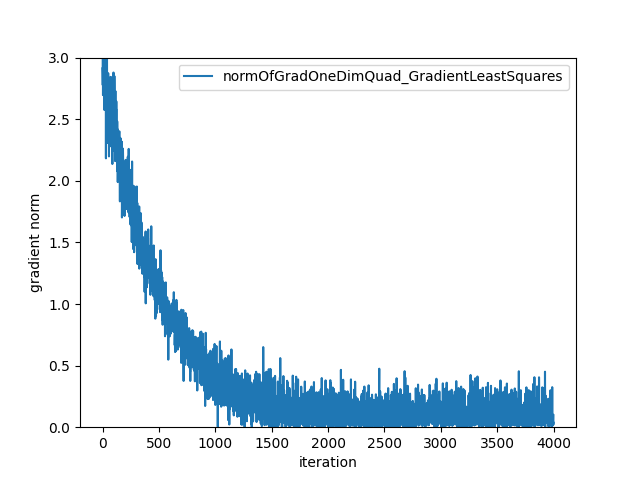
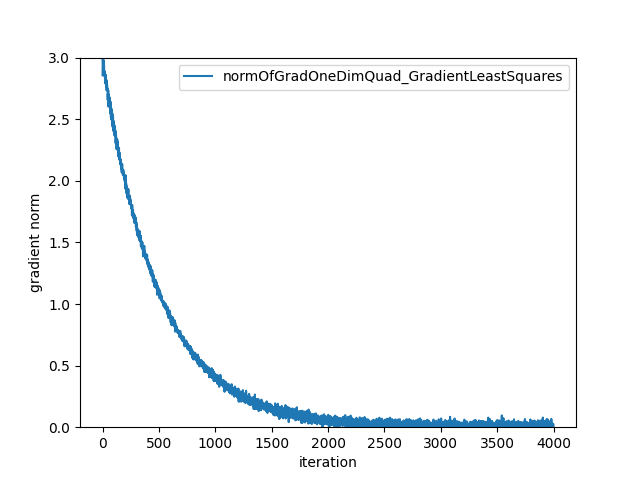
computing A memory efficiently

Changed region(s): [[0.1562, 0.125, 0.875, 0.9062]]

diff --git a/optimization/TestMain.py b/optimization/TestMain.py
@@ -110,8 +110,8 @@ def test_03():
     ms = SolverSGD(oracle=oracle, max_iter=4000, n1=1)
     thetas = ms.run(np.random.RandomState(seed=45).rand(1))
     # plot_objective_value(oracle.objective_values, "OneDimQuad_SolverSGD")
-    # plot_log(oracle.norm_of_gradients, "gradient norm", "normOfGradOneDimQuad_SolverSGD")
-    plot_log(oracle.norm_of_grad_diff, "grads diff norm", "normOfDiffOneDimQuad_SolverSGD")
+    plot_log(oracle.norm_of_gradients, "gradient norm", "normOfGradOneDimQuad_SolverSGD")
+    # plot_log(oracle.norm_of_grad_diff, "grads diff norm", "normOfDiffOneDimQuad_SolverSGD")
     print("best parameters", thetas, '\n')
 
 
@@ -121,8 +121,8 @@ def test_04():
     ms = SolverStorm(oracle=oracle, max_iter=4000, )
     thetas = ms.run(np.random.RandomState(seed=45).rand(1))
     # plot_objective_value(oracle.objective_values, "OneDimQuad_SolverStorm")
-    # plot_log(oracle.norm_of_gradients, "gradient norm", "normOfGradOneDimQuad_SolverStorm")
-    plot_log(oracle.norm_of_grad_diff, "grads diff norm", "normOfDiffOneDimQuad_SolverStorm")
+    plot_log(oracle.norm_of_gradients, "gradient norm", "normOfGradOneDimQuad_SolverStorm")
+    # plot_log(oracle.norm_of_grad_diff, "grads diff norm", "normOfDiffOneDimQuad_SolverStorm")
     print("best parameters", thetas, '\n')
 
 
@@ -156,20 +156,18 @@ def test_07():
     print("running test 7...")
 
     oracle = MeanOracle(objective_function=OneDimQuad(), )
-    ms = GradientLeastSquares(oracle=oracle, j1=1, j2=1, l=1, alpha=0.7, max_iter=4000, lr=1e-3 )
+    ms = GradientLeastSquares(oracle=oracle, j1=1, j2=1, l=3, alpha=1, max_iter=4000, lr=0.005 )
     thetas = ms.run(np.random.RandomState(seed=45).rand(1))
 
     # plot the objective value list
-    # plot_objective_value(oracle.objective_values, "OneDimQuad_GradientLeastSquares")
-    # plot_log(oracle.norm_of_gradients, "gradient norm", "normOfGradOneDimQuad_GradientLeastSquares")
-    plot_log(oracle.norm_of_grad_diff, "grads diff norm", "normOfDiffOneDimQuad_GradientLeastSquares")
+    # plot_objective_value(oracle.objective_values, "OneDimQuad_GradientLeastSquares_j1")
+    plot_log(oracle.norm_of_gradients, "gradient norm", "normOfGradOneDimQuad_GradientLeastSquares_j1")
+    # plot_log(oracle.norm_of_grad_diff, "grads diff norm", "normOfDiffOneDimQuad_GradientLeastSquares_j1")
 
-    # plot_grad_log_tt(estimated_grads, true_grads, "gradOneDimQuad_GradientLeastSquares" )
     print("best parameters", thetas, '\n')
 
-
 cumulative = True
-high_bound_x = 3000
+high_bound_x = 4000
 high_bound_y = 3
 low_bound_x = -1
 low_bound_y = 0
@@ -181,6 +179,7 @@ test_04()
 # test_06()
 test_07()
 
+
 if cumulative:
     plt.legend(plot_names, loc='upper right')
-    plt.savefig("plots/" + 'final_values')
+    plt.savefig("plots/test/" + 'cumulative3_2')

diff --git a/optimization/solvers/GradientLeastSquares.py b/optimization/solvers/GradientLeastSquares.py
@@ -30,13 +30,13 @@ class GradientLeastSquares(Solver):
         h = np.matmul(X, theta)
         return 1 / (2 * m) * np.linalg.norm(h - y, ord=2) ** 2
 
-    def least_squares_SGD(self, c, A, theta, num_iters, gamma, ):
+    def least_squares_SGD(self, c, A, theta, num_iters=100, gamma=0.001, ):
         m = c.shape[0]
         models = []
         for iter in range(num_iters):
             random_idx = np.random.randint(m)
             # update weights
-            theta = theta - gamma * np.transpose(A[random_idx]) * (np.matmul(A[random_idx], theta) - c[random_idx])
+            theta = theta - gamma * np.transpose(A) * (np.matmul(A, theta) - c)
             models.append(np.copy(theta))
             # best_model_idx = np.argmin(val_loss)
         return models[-1]
@@ -50,15 +50,13 @@ class GradientLeastSquares(Solver):
          a matrix with the shape of (self.j1, x_t.shape[0]) OR (self.j1, param_num)
 
         """
-        return x_t +  np.random.normal(0, 0.01, (self.j1, x_t.shape[0]))
+        return x_t +  np.random.normal(0, 0.001, (self.j1, x_t.shape[0]))
 
     def run(self, x_t, **kwargs):
         print("GradientLeastSquares optimizing... ")
         for i in range(self.max_iter):
 
             x_js = self.get_x_js(x_t)
-            A = self.alpha / self.j1 * np.matmul((x_js - x_t).T, (x_js - x_t)) + (1 - self.alpha) * np.identity(
-                x_t.shape[0])
 
             # compute lipschitz part of the right hand side of the equation Ad=c
             lips_sum = 0
@@ -78,11 +76,21 @@ class GradientLeastSquares(Solver):
                 objective_value_x_t, g_t, _, _ = self.oracle.compute_oracle(x_t, )
                 gradient_sum += g_t
             b += (1 - self.alpha) / self.j2 * gradient_sum
-            # Create linear regression object
-            # regr = linear_model.LinearRegression()
+            A = self.alpha / self.j1 * np.matmul((x_js - x_t).T, (x_js - x_t)) + (1 - self.alpha) * np.identity(
+                x_t.shape[0])
 
-            # Train the model using the training sets
-            # regr.fit(A, b)
+            # x_js_minus= x_js - x_t
+            # x_js_minus_transpose=x_js_minus.T
+            # for s in range(x_t.shape[0]):
+            #     row= np.zeros(x_t.shape[0])
+            #     for k in range(x_t.shape[0]):
+            #         if s==k:
+            #             row[k]= self.alpha / self.j1 * np.dot(x_js_minus_transpose[s], x_js_minus[k])+1-self.alpha
+            #         else:
+            #             row[k] = self.alpha / self.j1 * np.dot(x_js_minus_transpose[s], x_js_minus[k])
+            #
+            #     self.least_squares_SGD(b[s], row, None)
+
             delta = np.linalg.lstsq(A, b, rcond=None)[0]
             self.oracle.log_gradient(x_t,delta)
 
